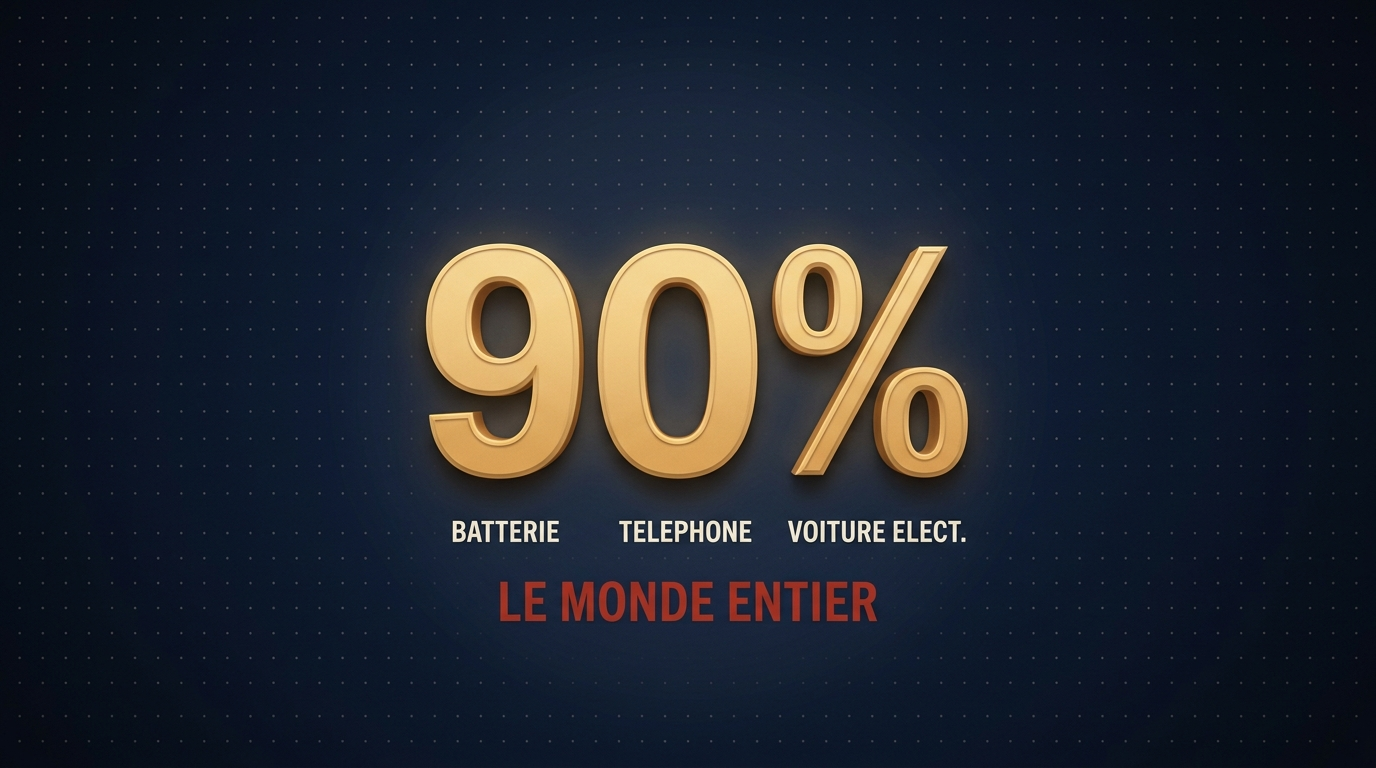
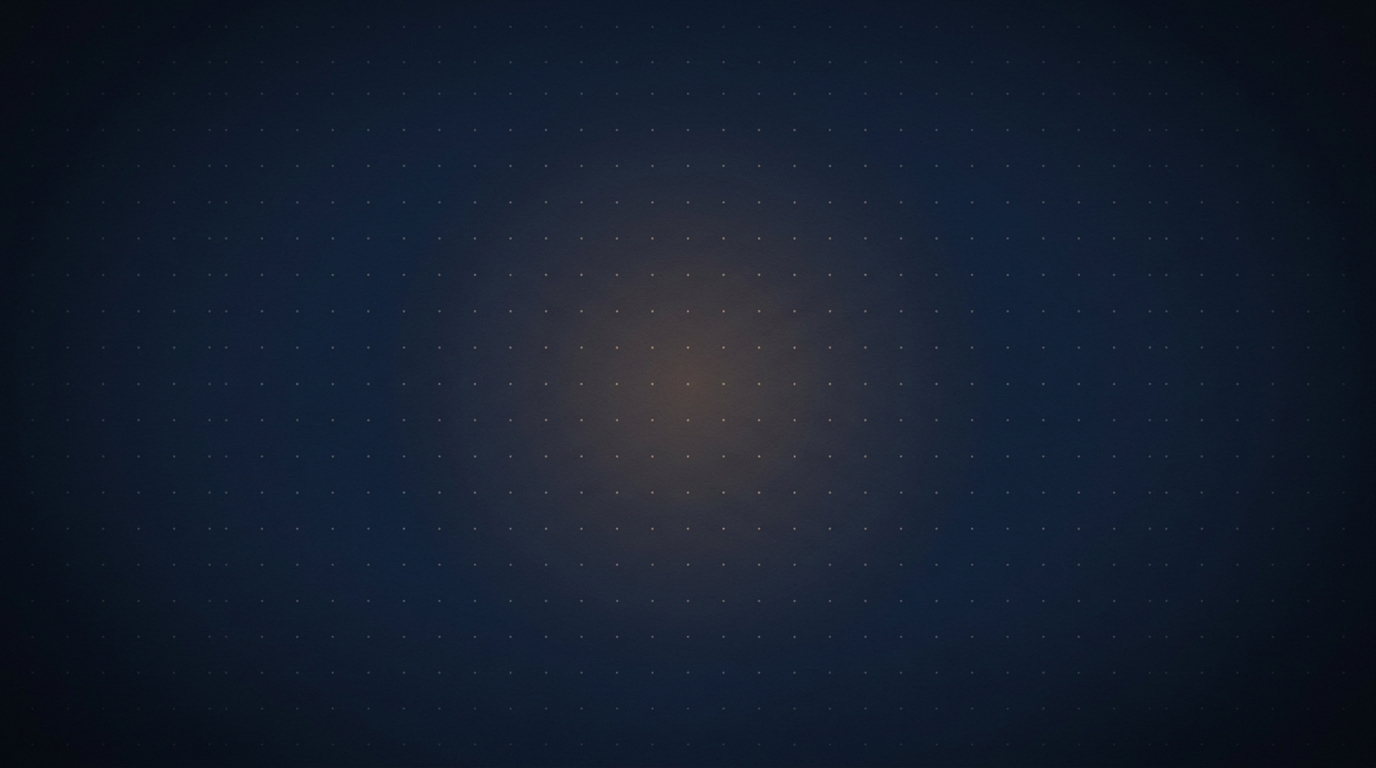
refactor(refs): fonds de background PURS (sans sujet) + retrait dette
Regenere les 4 fonds SANS chiffre/texte (prompt 'EMPTY ... NO text/numbers/
subject') -> vraies refs de background propres, remplacent les storyboards qui
avaient le '90%' dessus. Zero dette technique.
Supprime bg-senegal-navy-grille-or-REEL (ne provenait pas de la bonne video) ;
le parchemin-clair regenere couvre le besoin. Doctrine + index mis a jour (4 fonds).

Changed region(s): [[0.2812, 0.2812, 0.7188, 0.7188], [0.3438, 0.75, 0.6562, 0.8125]]

diff --git a/public/_shared/refs/backgrounds/_PALETTE-BACKGROUNDS.md b/public/_shared/refs/backgrounds/_PALETTE-BACKGROUNDS.md
@@ -4,15 +4,17 @@
 > empêcher la dérive « chaque génération improvise son fond ». L'agent CHOISIT dans cette palette selon le
 > registre — il n'invente pas un fond. Adaptable au fil du temps, mais on part TOUJOURS d'ici.
 
-## Les 5 backgrounds validés (Aziz, 2026-06-19)
+## Les 4 backgrounds validés (Aziz, 2026-06-19) — fonds PURS (sans sujet ni texte)
 
 | Ref (image) | Registre / quand l'utiliser |
 |---|---|
-| `bg-parchemin-clair.png` ⭐ | **Éditorial/documentaire premium** (le « safe efficace » type Vox/Johnny Harris). Le DÉFAUT pour la data-viz sérieuse. Crème + quadrillage ocre fin. Le plus robuste à générer (zéro parasite). |
-| `bg-parchemin-kraft.png` | Variante chaude/sombre du parchemin (kraft, ambiance candle-lit). Pour un ton plus grave. ⚠ plus sujet au texte parasite (fond chargé). |
-| `bg-dots-navy.png` ⭐ | **Data-lab moderne** : navy + pointillés subtils + halo. Pour chiffres-chocs tech/marché. Très propre. |
+| `bg-parchemin-clair.png` ⭐ | **Éditorial/documentaire premium** (le « safe efficace » type Vox/Johnny Harris). Le DÉFAUT pour la data-viz sérieuse. Crème + quadrillage ocre fin. Le plus robuste à générer. |
+| `bg-parchemin-kraft.png` | Variante chaude/sombre du parchemin (kraft, ambiance candle-lit). Pour un ton plus grave. |
+| `bg-dots-navy.png` ⭐ | **Data-lab moderne** : navy + pointillés subtils + halo. Pour chiffres-chocs tech/marché. |
 | `bg-uni-navy.png` | Navy uni `#16213a`, sobre, sans grille. Neutre, polyvalent. = le fond carte Mapbox standard. |
-| `bg-senegal-navy-grille-or-REEL.jpg` ⭐ | Le VRAI fond du hook Sénégal (extrait de la vidéo finale). Navy profond + quadrillage DORÉ. Notre identité prouvée. ⚠ NB : ce qu'on appelait « parchemin Sénégal » est en fait CE navy+grille-or, pas un parchemin crème. |
+
+> Ce sont des fonds PURS (régénérés 2026-06-19, aucun chiffre/texte) — prêts à servir de ref de background.
+> Clé pour en regénérer un propre : prompt « EMPTY background texture only … NO text, NO numbers, NO subject ».
 
 ## Comment s'en servir dans un storyboard dual-gen
 
@@ -33,7 +35,5 @@ On passe le background voulu comme **référence + description** au générateur
    « cost/bad », labels d'un autre épisode) → le modèle les dessine. Décrire SEULEMENT ce qu'on veut à l'écran.
 3. **Toujours les 2 modèles**, jamais se limiter à un selon le registre : on compare deux intentions de direction.
 
-## Dette / à améliorer
-- Ces refs ont le sujet « 90% » dessus (ce sont des storyboards). Pour des refs de FOND pures, regénérer les
-  fonds SANS sujet. Tels quels, ils servent déjà bien de ref de registre.
+## Évolution
 - Élargir avec d'autres teintes/variantes validées au fil des prods (rester une palette FERMÉE, pas un fourre-tout).

diff --git a/src/projects/_shared/INTENTION-FORME-INDEX.md b/src/projects/_shared/INTENTION-FORME-INDEX.md
@@ -165,8 +165,8 @@ Le fond se choisit selon le registre éditorial, pas au hasard (anti-retour-en-a
 Détail + palettes : [[decode-hera-templates]] + README `out/_r-and-d/decode-hera/`.
 
 ⭐ **PALETTE DE BACKGROUNDS VALIDÉE (images de réf, palette FERMÉE)** : `public/_shared/refs/backgrounds/`
-(`_PALETTE-BACKGROUNDS.md`). 5 fonds validés Aziz 2026-06-19 : parchemin-clair ⭐ (défaut éditorial), dots-navy ⭐,
-parchemin-kraft, uni-navy, + le VRAI fond hook Sénégal (navy+grille OR — pas un parchemin). **Pour un storyboard,
+(`_PALETTE-BACKGROUNDS.md`). 4 fonds PURS validés Aziz 2026-06-19 : parchemin-clair ⭐ (défaut éditorial), dots-navy ⭐,
+parchemin-kraft, uni-navy. **Pour un storyboard,
 on PART de cette palette** (l'agent choisit dedans, n'invente pas un fond → identité visuelle stable). Génération
 dual-gen : Gemini RESPECTE le fond imposé (outil du contrôle de fond) · GPT-image le fait AUSSI mais il faut le
 mettre en 1ʳᵉ phrase + formulé négatif (« LIGHT … NOT dark/navy »). TOUJOURS les 2 modèles (2 directions à comparer).
